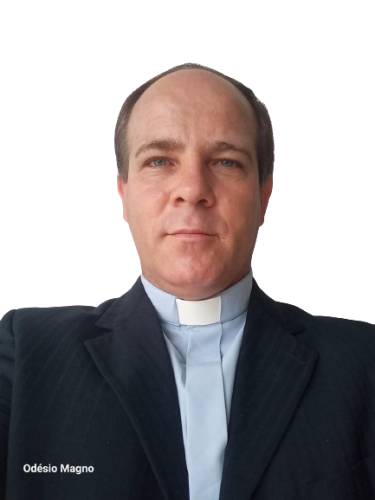
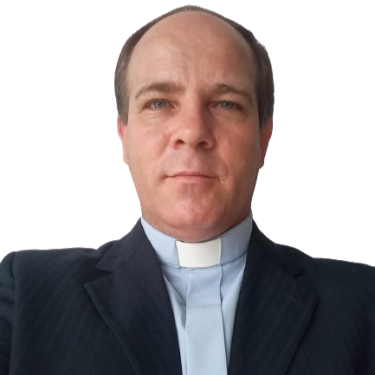
Add foto

diff --git a/src/componentes/CalendarioPadres/index.tsx b/src/componentes/CalendarioPadres/index.tsx
@@ -133,10 +133,12 @@ const CalendarioPadres: React.FC = () => {
     { id: "78-2025-01-10-19h-Matriz", data: "2025-01-10", horario: "18h", local: "Abertura dos Festejos", padre: "Padre Eudásio" },
     { id: "78-2025-01-11-19h-Matriz", data: "2025-01-11", horario: "18h", local: "Segundo Dia", padre: "Padre Vicente" },
     { id: "78-2025-01-12-19h-Matriz", data: "2025-01-12", horario: "18h", local: "Terceiro Dia", padre: "Padre Frei Gilmar" },
-    { id: "78-2025-01-13-19h-Matriz", data: "2025-01-13", horario: "18h", local: "Quarto Dia", padre: "Padre Odésio" },      { id: "78-2025-01-14-19h-Matriz", data: "2025-01-14", horario: "18h", local: "Quinto Dia", padre: "Padre Gleice" },
+    { id: "78-2025-01-13-19h-Matriz", data: "2025-01-13", horario: "18h", local: "Quarto Dia", padre: "Padre Odésio" },
+    { id: "78-2025-01-14-19h-Matriz", data: "2025-01-14", horario: "18h", local: "Quinto Dia", padre: "Padre Gleison" },
     { id: "78-2025-01-15-19h-Matriz", data: "2025-01-15", horario: "18h", local: "Sexto Dia", padre: "Padre Sávio" },
     { id: "78-2025-01-16-19h-Matriz", data: "2025-01-16", horario: "18h", local: "Sétimo Dia", padre: "Padre Rafhael" },
-    { id: "78-2025-01-17-19h-Matriz", data: "2025-01-17", horario: "18h", local: "Oitavo Dia", padre: "Padre Diego" },      { id: "78-2025-01-18-19h-Matriz", data: "2025-01-18", horario: "18h", local: "Nono Dia", padre: "Padre Ednaldo" },
+    { id: "78-2025-01-17-19h-Matriz", data: "2025-01-17", horario: "18h", local: "Oitavo Dia", padre: "Padre Diego" },
+    { id: "78-2025-01-18-19h-Matriz", data: "2025-01-18", horario: "18h", local: "Nono Dia", padre: "Padre Ednaldo" },
     { id: "78-2025-01-19-19h-Matriz", data: "2025-01-19", horario: "18h", local: "Décimo Dia", padre: "Padre Abimael" },
     { id: "78-2025-01-20-19h-Matriz", data: "2025-01-20", horario: "18h", local: "Encerramento dos Festejos", padre: "Padre Eudásio" },
   ];

diff --git a/src/componentes/Festejos/index.tsx b/src/componentes/Festejos/index.tsx
@@ -21,7 +21,7 @@ const Festejos: React.FC = () => {
       { id: "78-2025-01-11-19h-Matriz", data: "2025-01-11", horario: "18h", local: "Segundo Dia", padre: "Padre Vicente" },
       { id: "78-2025-01-12-19h-Matriz", data: "2025-01-12", horario: "18h", local: "Terceiro Dia", padre: "Padre Frei Gilmar" },
       { id: "78-2025-01-13-19h-Matriz", data: "2025-01-13", horario: "18h", local: "Quarto Dia", padre: "Padre Odésio" },
-      { id: "78-2025-01-14-19h-Matriz", data: "2025-01-14", horario: "18h", local: "Quinto Dia", padre: "Padre Gleice" },
+      { id: "78-2025-01-14-19h-Matriz", data: "2025-01-14", horario: "18h", local: "Quinto Dia", padre: "Padre Gleison" },
       { id: "78-2025-01-15-19h-Matriz", data: "2025-01-15", horario: "18h", local: "Sexto Dia", padre: "Padre Sávio" },
       { id: "78-2025-01-16-19h-Matriz", data: "2025-01-16", horario: "18h", local: "Sétimo Dia", padre: "Padre Rafhael" },
       { id: "78-2025-01-17-19h-Matriz", data: "2025-01-17", horario: "18h", local: "Oitavo Dia", padre: "Padre Diego" },

diff --git a/src/componentes/CardEscala/index.tsx b/src/componentes/CardEscala/index.tsx
@@ -48,6 +48,22 @@ const CardEscala: React.FC<CardEscalaProps> = ({
         return "/padre-william.png";
       case "Padre João Paulo":
         return "/padre-joaop.png";
+      case "Padre Frei Gilmar":
+        return "frei-gilmar.jpeg";
+      case "Padre Vicente":
+        return "/pe-vicente.jpeg";
+      case "Padre Odésio":
+        return "/pe_odesio.png";
+      case "Padre Gleison":
+        return "/padre-gleison.jpeg";
+      case "Padre Sávio":
+        return "/pe-savio.jpeg";
+      case "Padre Diego":
+        return "/pe-diego.jpeg";
+      case "Padre Ednaldo":
+        return "/pe-ednaldo.jpeg";
+      case "Padre Abimael":
+        return "/pe-abimael.jpeg";
       default:
         return "/imagens/semfoto.jpg";
     }
